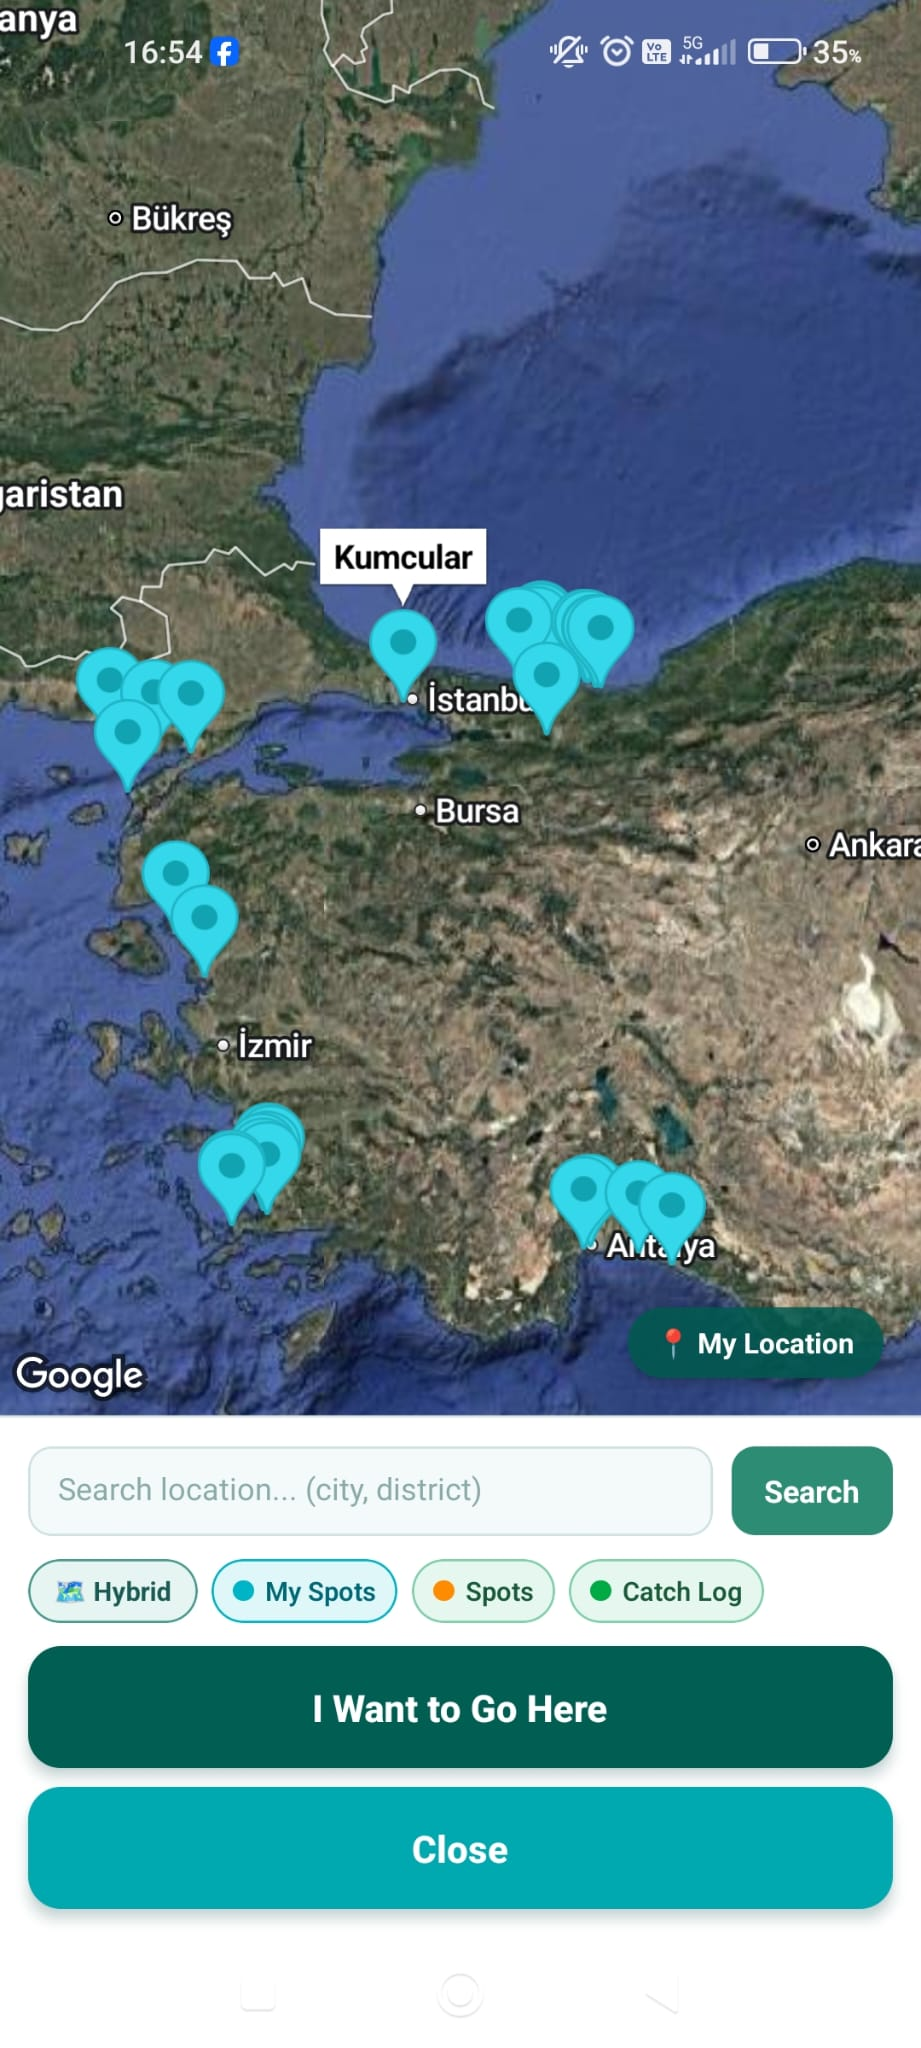
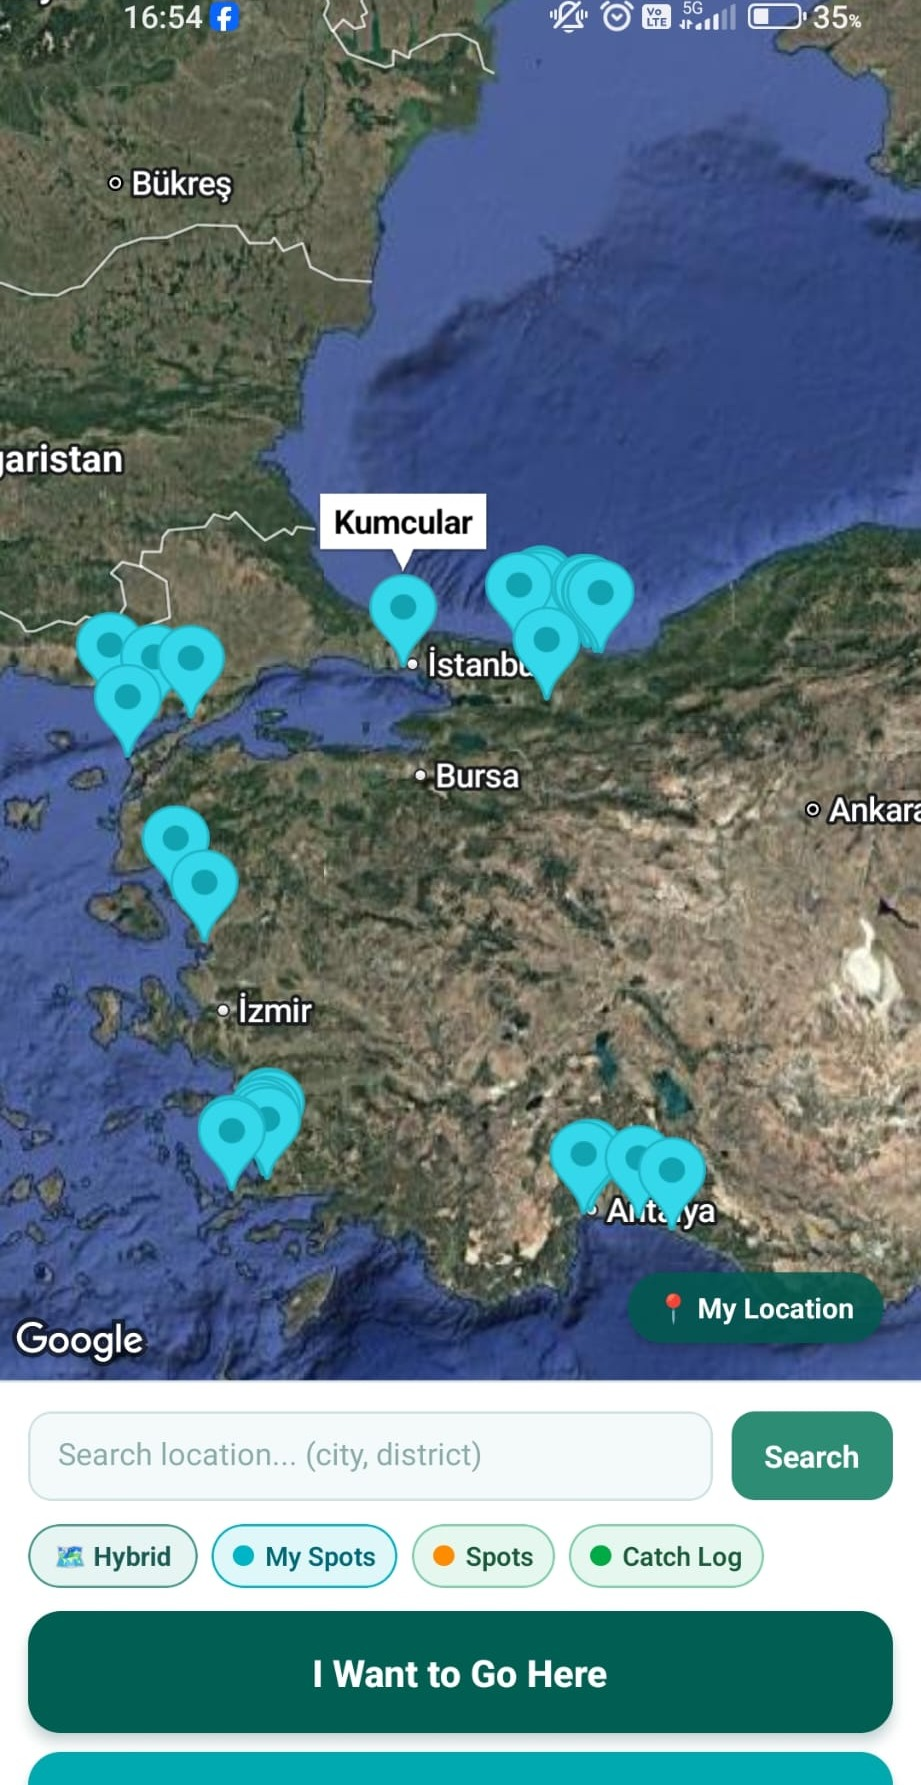
Replace showcase images with cleaner crops

diff --git a/index.html b/index.html
@@ -12,7 +12,7 @@
       data-i18n-attr="content"
     />
     <link rel="canonical" href="https://fishing-plan.com/" />
-    <link rel="stylesheet" href="styles.css?v=8" />
+    <link rel="stylesheet" href="styles.css?v=9" />
     <link rel="icon" type="image/png" href="favicon.png?v=6" />
     <link rel="apple-touch-icon" href="apple-touch-icon.png?v=6" />
     <script defer src="script.js?v=7"></script>
@@ -75,7 +75,7 @@
           <div class="screen-rail" aria-label="Fishing Plan app screens">
             <article class="screen-slide">
               <div class="screen-media crop-banner crop-water">
-                <img src="assets/showcase/water-type-selection.jpeg" alt="Fishing Plan water type selection screen" />
+                <img src="assets/showcase/water-type-selection.jpeg?v=2" alt="Fishing Plan water type selection screen" />
               </div>
               <div class="screen-copy">
                 <span class="screen-tag" data-i18n="shot_badge_1">Water Type</span>
@@ -88,7 +88,7 @@
 
             <article class="screen-slide">
               <div class="screen-media crop-standard crop-weather">
-                <img src="assets/showcase/weather-summary.jpeg" alt="Fishing Plan weather intelligence screen" />
+                <img src="assets/showcase/weather-summary.jpeg?v=2" alt="Fishing Plan weather intelligence screen" />
               </div>
               <div class="screen-copy">
                 <span class="screen-tag" data-i18n="shot_badge_2">Weather Intelligence</span>
@@ -101,7 +101,7 @@
 
             <article class="screen-slide">
               <div class="screen-media crop-banner crop-spot">
-                <img src="assets/showcase/spot-analytics.jpeg" alt="Fishing Plan spot analytics screen" />
+                <img src="assets/showcase/spot-analytics.jpeg?v=2" alt="Fishing Plan spot analytics screen" />
               </div>
               <div class="screen-copy">
                 <span class="screen-tag" data-i18n="shot_badge_3">Spot Analytics</span>
@@ -114,7 +114,7 @@
 
             <article class="screen-slide">
               <div class="screen-media crop-standard crop-analysis">
-                <img src="assets/showcase/analysis-flow.jpeg" alt="Fishing Plan analysis flow screen" />
+                <img src="assets/showcase/analysis-flow.jpeg?v=2" alt="Fishing Plan analysis flow screen" />
               </div>
               <div class="screen-copy">
                 <span class="screen-tag" data-i18n="shot_badge_4">Analysis Flow</span>
@@ -127,7 +127,7 @@
 
             <article class="screen-slide">
               <div class="screen-media crop-map">
-                <img src="assets/showcase/map-discovery.jpeg" alt="Fishing Plan map discovery screen" />
+                <img src="assets/showcase/map-discovery.jpeg?v=2" alt="Fishing Plan map discovery screen" />
               </div>
               <div class="screen-copy">
                 <span class="screen-tag" data-i18n="shot_badge_5">Map Discovery</span>

diff --git a/styles.css b/styles.css
@@ -304,8 +304,6 @@ h1 {
 }
 
 .screen-media {
-  height: 640px;
-  overflow: hidden;
   padding: 18px 18px 10px;
   background:
     radial-gradient(circle at top, rgba(117, 230, 223, 0.22), transparent 42%),
@@ -314,39 +312,9 @@ h1 {
 
 .screen-media img {
   width: 100%;
-  height: 100%;
-  object-fit: cover;
-  object-position: center top;
+  height: auto;
   border-radius: 24px;
   box-shadow: 0 14px 38px rgba(11, 39, 44, 0.14);
-}
-
-.crop-banner img {
-  object-position: center 23%;
-}
-
-.crop-standard img {
-  object-position: center 14%;
-}
-
-.crop-map img {
-  object-position: center 34%;
-}
-
-.crop-water img {
-  object-position: center 27%;
-}
-
-.crop-weather img {
-  object-position: center 16%;
-}
-
-.crop-spot img {
-  object-position: center 24%;
-}
-
-.crop-analysis img {
-  object-position: center 13%;
 }
 
 .screen-copy {
@@ -601,7 +569,6 @@ h1 {
   }
 
   .screen-media {
-    height: 560px;
     padding: 14px 14px 8px;
   }
 

diff --git a/delete-account.html b/delete-account.html
@@ -12,7 +12,7 @@
       data-i18n-attr="content"
     />
     <link rel="canonical" href="https://fishing-plan.com/delete-account.html" />
-    <link rel="stylesheet" href="styles.css?v=8" />
+    <link rel="stylesheet" href="styles.css?v=9" />
     <link rel="icon" type="image/png" href="favicon.png?v=6" />
     <link rel="apple-touch-icon" href="apple-touch-icon.png?v=6" />
     <script defer src="script.js?v=7"></script>

diff --git a/privacy-policy.html b/privacy-policy.html
@@ -12,7 +12,7 @@
       data-i18n-attr="content"
     />
     <link rel="canonical" href="https://fishing-plan.com/privacy-policy.html" />
-    <link rel="stylesheet" href="styles.css?v=8" />
+    <link rel="stylesheet" href="styles.css?v=9" />
     <link rel="icon" type="image/png" href="favicon.png?v=6" />
     <link rel="apple-touch-icon" href="apple-touch-icon.png?v=6" />
     <script defer src="script.js?v=7"></script>

diff --git a/terms-of-use.html b/terms-of-use.html
@@ -12,7 +12,7 @@
       data-i18n-attr="content"
     />
     <link rel="canonical" href="https://fishing-plan.com/terms-of-use.html" />
-    <link rel="stylesheet" href="styles.css?v=8" />
+    <link rel="stylesheet" href="styles.css?v=9" />
     <link rel="icon" type="image/png" href="favicon.png?v=6" />
     <link rel="apple-touch-icon" href="apple-touch-icon.png?v=6" />
     <script defer src="script.js?v=7"></script>
